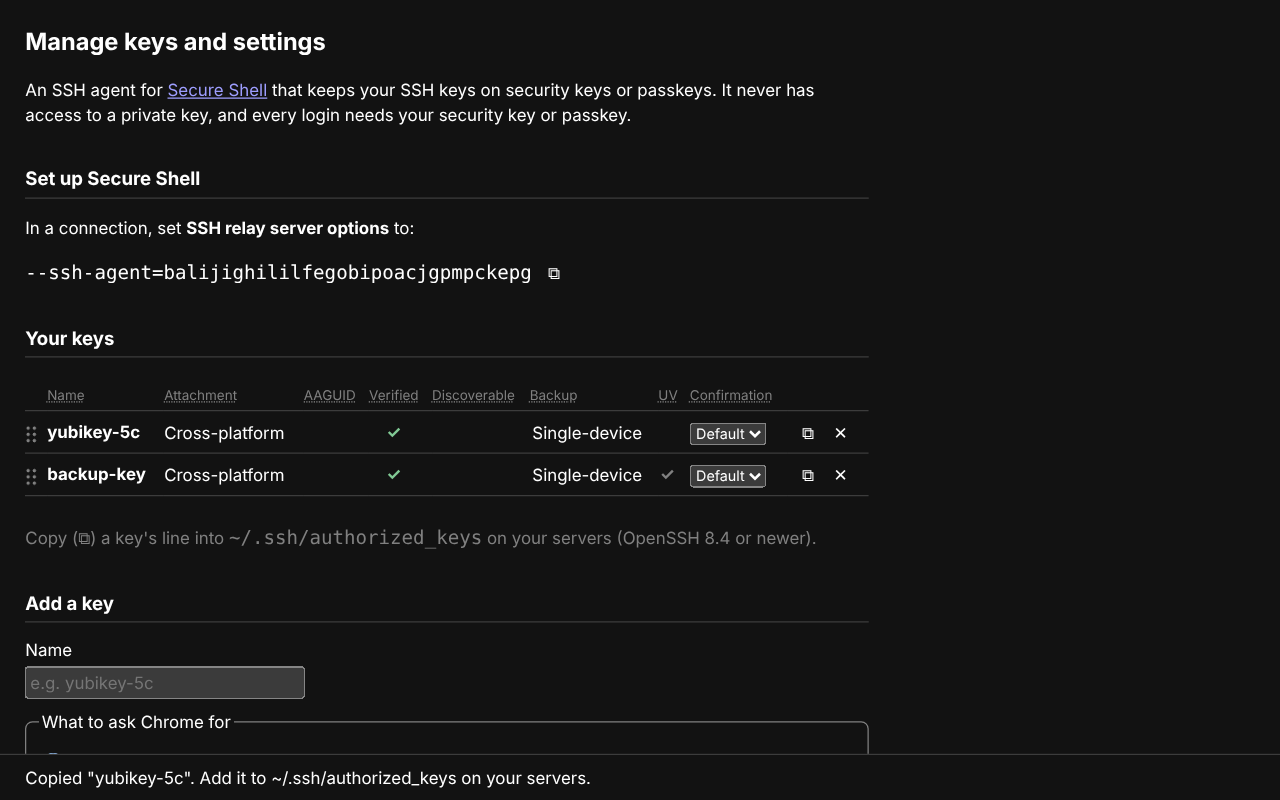
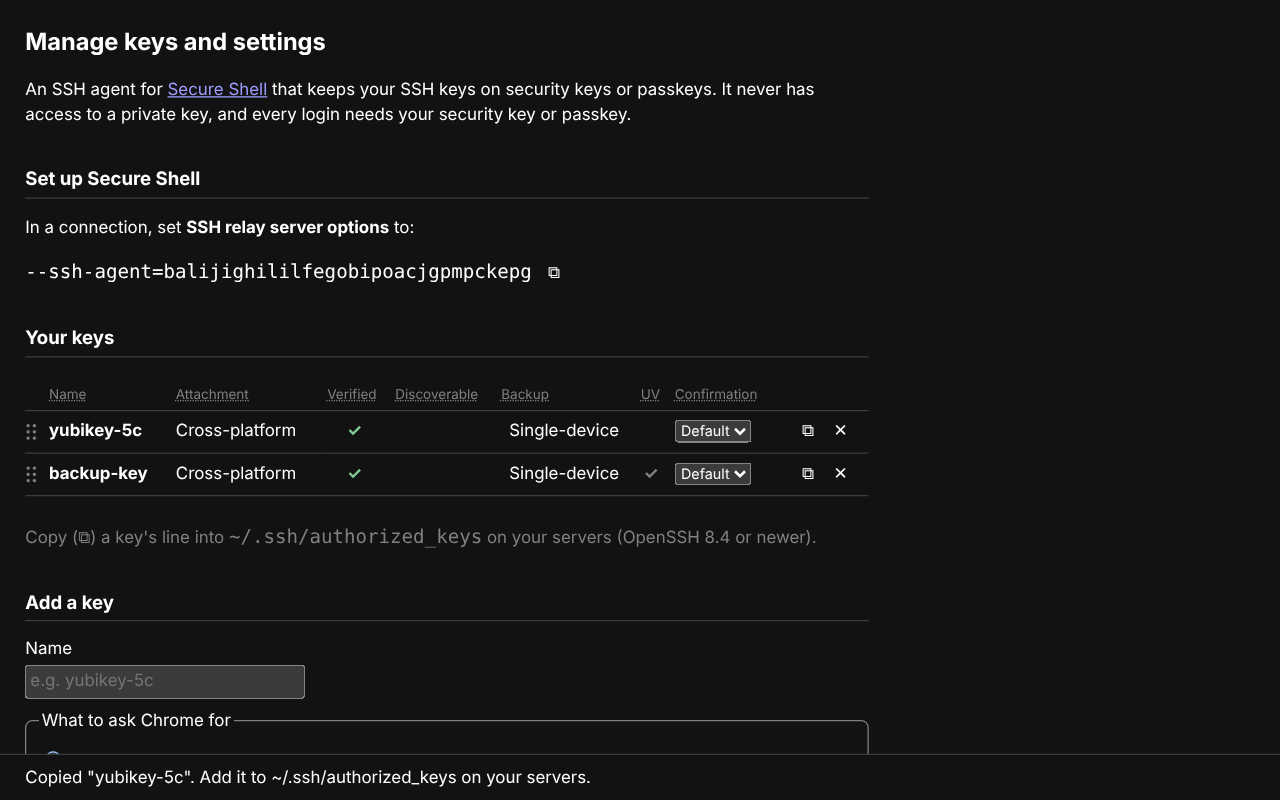
Declutter the Manage keys page
* The AAGUID column folds into Attachment: hovering a key's attachment
  shows its transports & model.
* "What to ask Chrome for" options are one line each, in plain terms;
  the WebAuthn terms are in their tooltips.
* Import is one button, which says what can be imported.
* The rarely needed settings (Secure Shell dev, trusting synced keys,
  unrecognized data) are under Advanced.

diff --git a/src/manage.html b/src/manage.html
@@ -42,23 +42,20 @@
     </label>
     <fieldset>
       <legend>What to ask Chrome for</legend>
-      <label>
+      <label data-tip="A non-discoverable credential on a cross-platform authenticator (YubiKey, Titan, …). Its encrypted private key is the credential ID, synced in your Chrome profile.">
         <input type="radio" name="where" value="security-key" checked />
-        <b>Security key</b> (YubiKey, Titan, …): a non-discoverable
-        credential on a cross-platform authenticator.  Only that security
-        key can use it.
+        <b>Security key</b>: works with that security key, wherever your
+        Chrome profile syncs
       </label>
-      <label>
+      <label data-tip="A discoverable credential (resident key) on a cross-platform authenticator, kept in one of its slots. Needs FIDO2.">
         <input type="radio" name="where" value="discoverable" />
-        <b>Security key, stored on the key</b>: a discoverable credential
-        (resident key) on a cross-platform authenticator, so you can import
-        it on any computer with just the security key.  Needs FIDO2.
+        <b>Security key, stored on the key</b>: works with that security key
+        anywhere, after <b>Import</b>
       </label>
-      <label>
+      <label data-tip="A discoverable credential on a platform authenticator (Google Password Manager, iCloud Keychain, Windows Hello, ChromeOS) or a phone, usually backed up (synced).">
         <input type="radio" name="where" value="passkey" />
-        <b>Passkey</b> (Google Password Manager, iCloud Keychain, Windows
-        Hello, a phone, …): a discoverable credential on a platform
-        authenticator or phone, usually backed up (synced).
+        <b>Passkey</b>: kept by your password manager or phone, usually
+        synced
       </label>
     </fieldset>
     <label>
@@ -71,8 +68,8 @@
       each authenticator reported.
     </p>
     <p>
-      Made a discoverable key or passkey with this extension on another
-      computer?  <button id="import">Import</button>
+      <button id="import" data-tip="A security key stored on the key, or a passkey, made with this extension on another computer">Import a key from
+        another computer</button>
     </p>
 
     <h2>Settings</h2>
@@ -90,21 +87,24 @@
       computer sets its own level.  Requests with a warning are always
       reviewed.
     </p>
-    <label>
-      <input id="allowDevSecureShell" type="checkbox" />
-      Also accept requests from <b>Secure Shell (dev)</b>
-    </label>
-    <label>
-      <input id="trustSyncedKeys" type="checkbox" />
-      <b>Trust keys synced</b> from your other computers without verifying
-      them.  Whoever controls your Google account could then get their own
-      public key onto your servers.
-    </label>
-    <label>
-      <input id="allowUnrecognized" type="checkbox" />
-      Offer to sign <b>unrecognized data</b> (neither an SSH login nor a file
-      signature), instead of refusing it
-    </label>
+    <details id="advanced">
+      <summary>Advanced</summary>
+      <label>
+        <input id="allowDevSecureShell" type="checkbox" />
+        Also accept requests from <b>Secure Shell (dev)</b>
+      </label>
+      <label>
+        <input id="trustSyncedKeys" type="checkbox" />
+        <b>Trust keys synced</b> from your other computers without verifying
+        them.  Whoever controls your Google account could then get their own
+        public key onto your servers.
+      </label>
+      <label>
+        <input id="allowUnrecognized" type="checkbox" />
+        Offer to sign <b>unrecognized data</b> (neither an SSH login nor a
+        file signature), instead of refusing it
+      </label>
+    </details>
 
     <details>
       <summary>Where do my keys live?</summary>

diff --git a/src/manage.js b/src/manage.js
@@ -36,12 +36,9 @@ const COLUMNS = [
   ['Attachment', 'authenticatorAttachment, as last reported.\n' +
                  'Platform: built into the computer (OS or browser).\n' +
                  'Cross-platform: roaming, e.g. a security key (USB, NFC, ' +
-                 'Bluetooth) or a phone (hybrid).'],
-  ['AAGUID', 'The authenticator\'s model ID, as reported when the key was ' +
-             'created.\n' +
-             '✓ Reported: hover for the model, from a community list.\n' +
-             'Blank: not reported (browsers often send all zeros), or the ' +
-             'key is older than this column.'],
+                 'Bluetooth) or a phone (hybrid).\n' +
+                 'Hover a cell for its transports & model (AAGUID), when ' +
+                 'reported.'],
   ['Verified', 'Whether this computer checked the public key with the ' +
                'authenticator.  Synced keys need this once per computer: ' +
                'whoever controls your Google account could swap the public ' +
@@ -360,32 +357,25 @@ function acceptDrops(tr, id) {
 
 /**
  * @param {!Object} key A StoredKey.
- * @return {!Element} Its authenticatorAttachment, & transports on hover.
+ * @return {!Element} Its authenticatorAttachment, & transports & model on
+ *     hover.
  */
 function renderAttachment(key) {
-  const transports = key.transports?.length ?
-      `\nTransports: ${key.transports.join(', ')}` : '';
+  // What else the authenticator reported when the key was created.
+  const details = [
+    key.transports?.length && `Transports: ${key.transports.join(', ')}`,
+    key.aaguid && `Model: ${AAGUID_NAMES.get(key.aaguid) ?? 'unknown'} ` +
+        `(AAGUID ${key.aaguid})`,
+  ].filter(Boolean).map((line) => `\n${line}`).join('');
   switch (key.attachment) {
     case Attachment.PLATFORM:
       return element('td', '', 'Platform',
-                     `Platform: built into the computer${transports}`);
+                     `Platform: built into the computer${details}`);
     case Attachment.CROSS_PLATFORM:
       return element('td', '', 'Cross-platform',
-                     `Cross-platform: a roaming authenticator${transports}`);
+                     `Cross-platform: a roaming authenticator${details}`);
   }
-  return element('td', 'weak', '?', UNKNOWN);
-}
-
-/**
- * @param {!Object} key A StoredKey.
- * @return {!Element} ✓ if it has an AAGUID, with its model on hover.
- */
-function renderAaguid(key) {
-  if (!key.aaguid) {
-    return markCell('', '', 'Not reported');
-  }
-  const model = AAGUID_NAMES.get(key.aaguid) ?? 'Unknown model';
-  return markCell('✓', 'yes', `${model}\nAAGUID ${key.aaguid}`);
+  return element('td', 'weak', '?', UNKNOWN + details);
 }
 
 /**
@@ -514,7 +504,6 @@ function renderKey(key, verified, keyFingerprint) {
       renderGrip(key),
       renderName(key, keyFingerprint),
       renderAttachment(key),
-      renderAaguid(key),
       renderVerified(key, verified),
       key.resident ?
           markCell('✓', 'yes', 'Discoverable credential (resident key)') :
